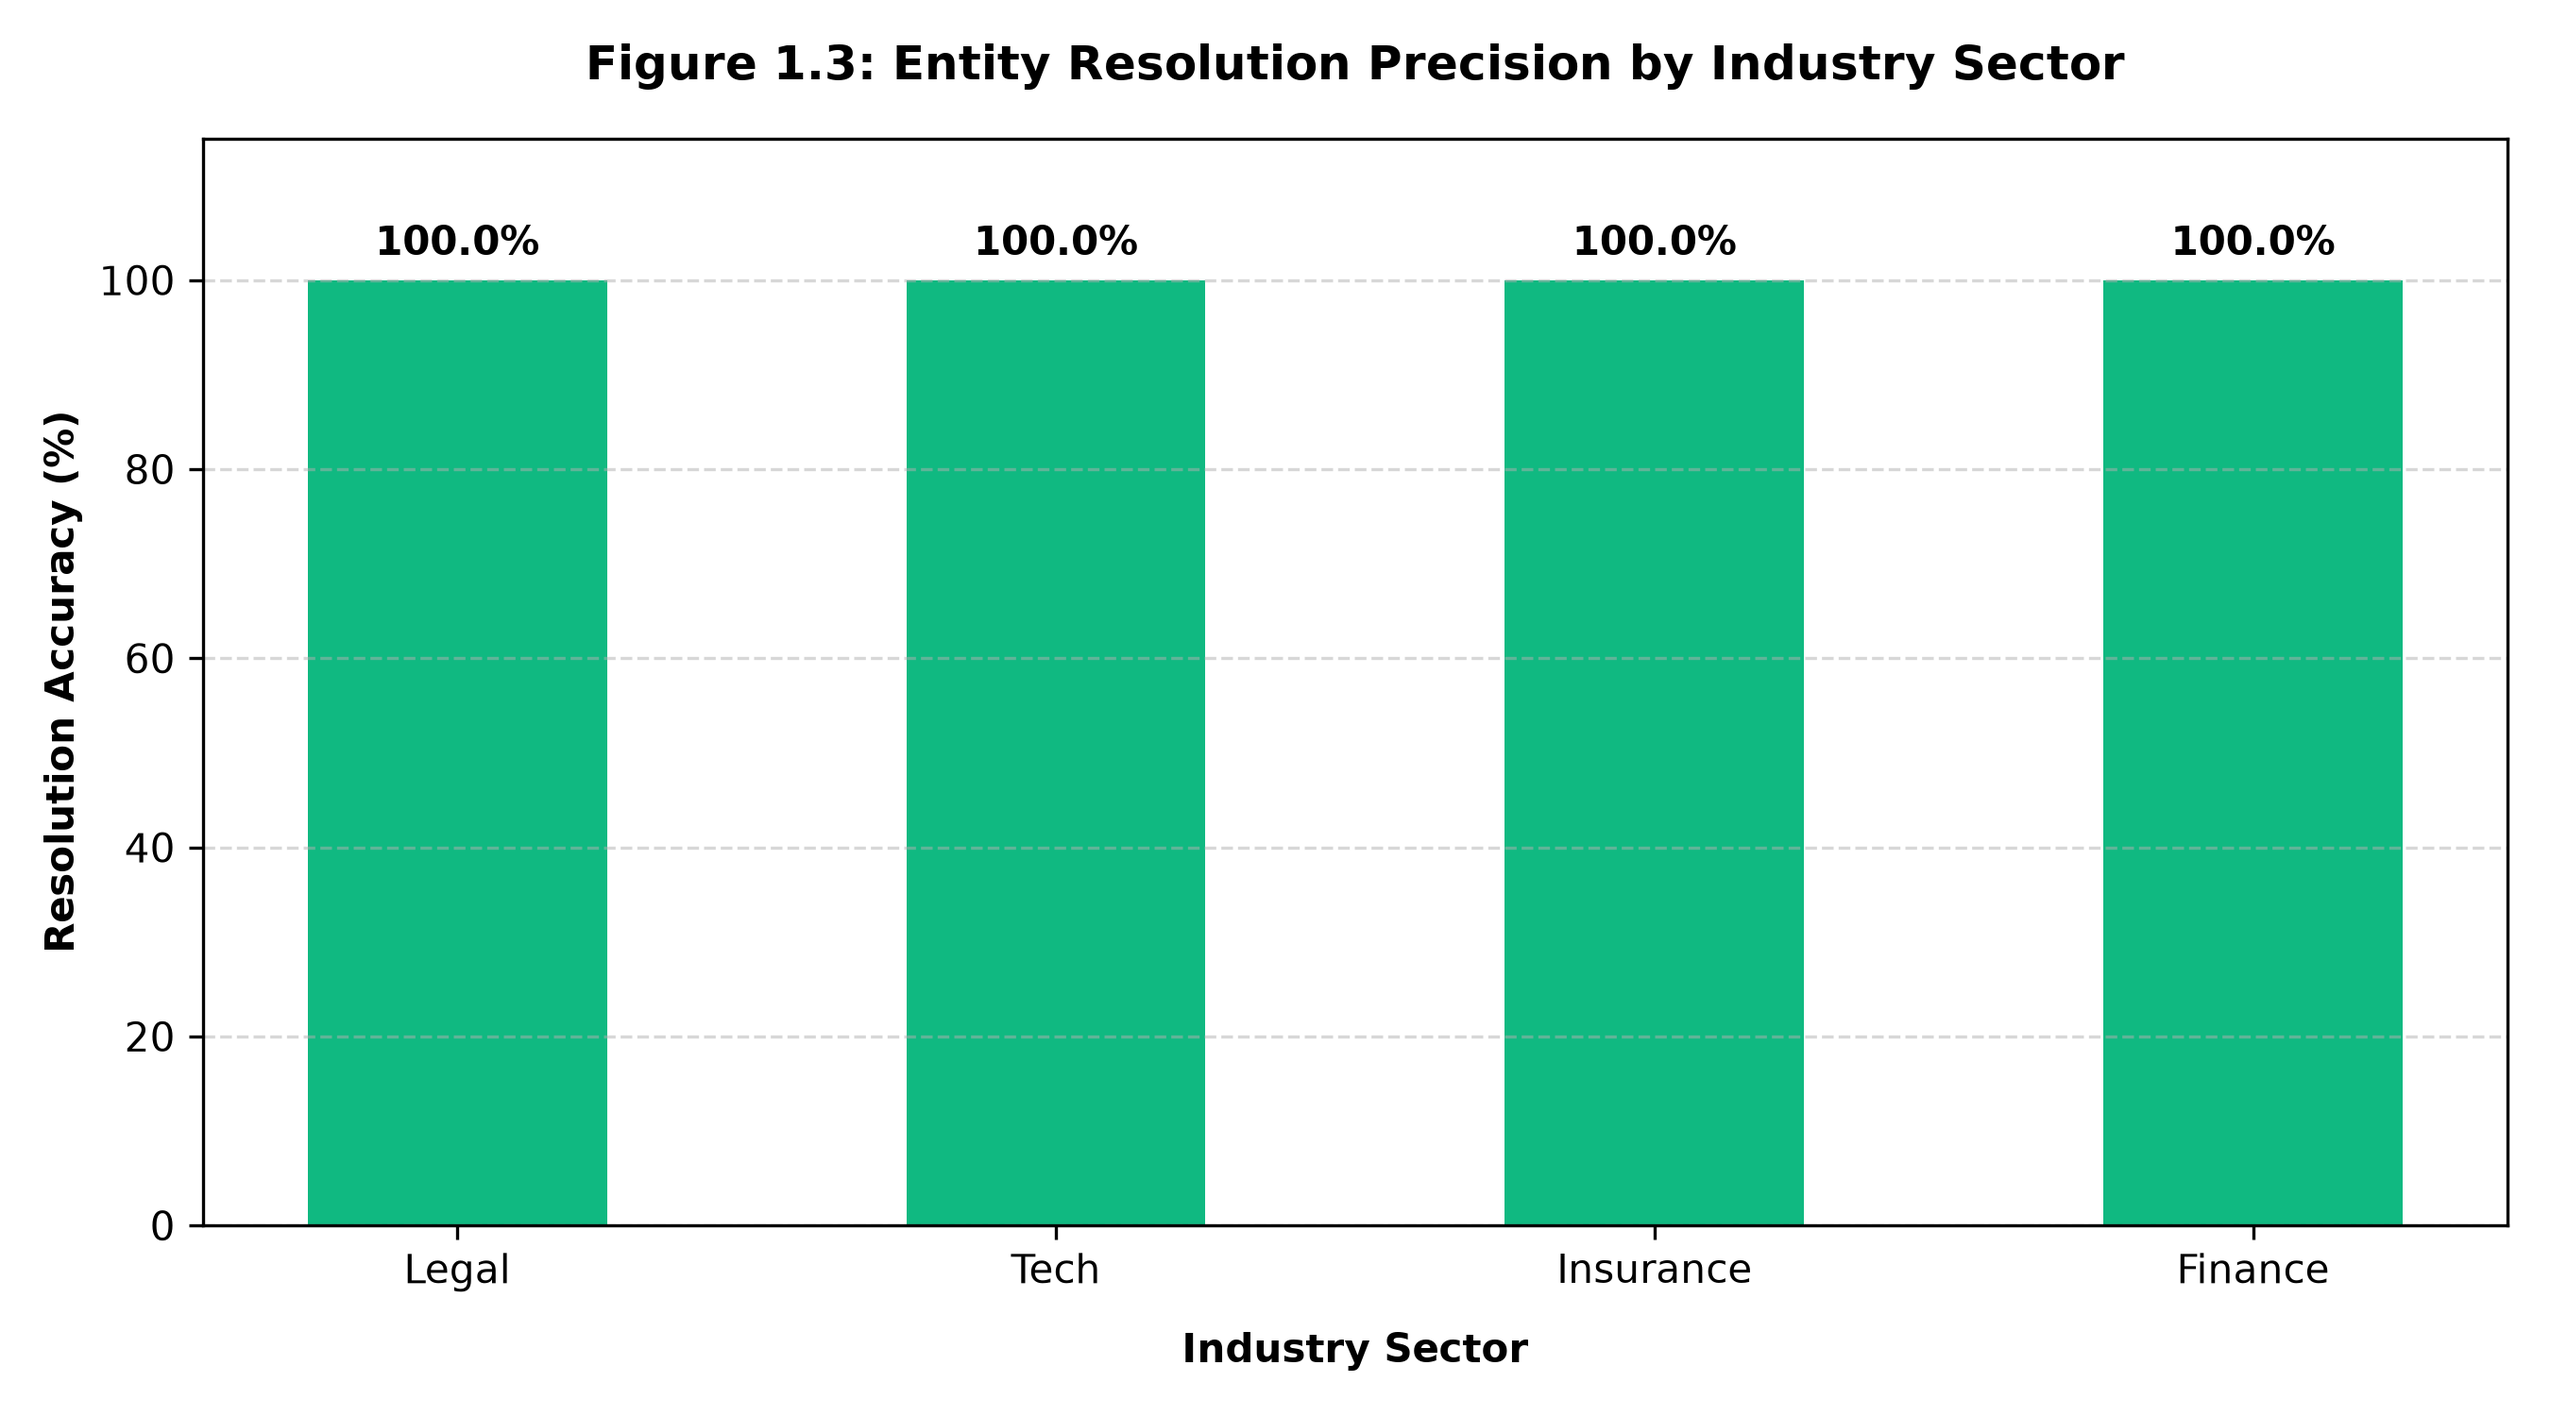
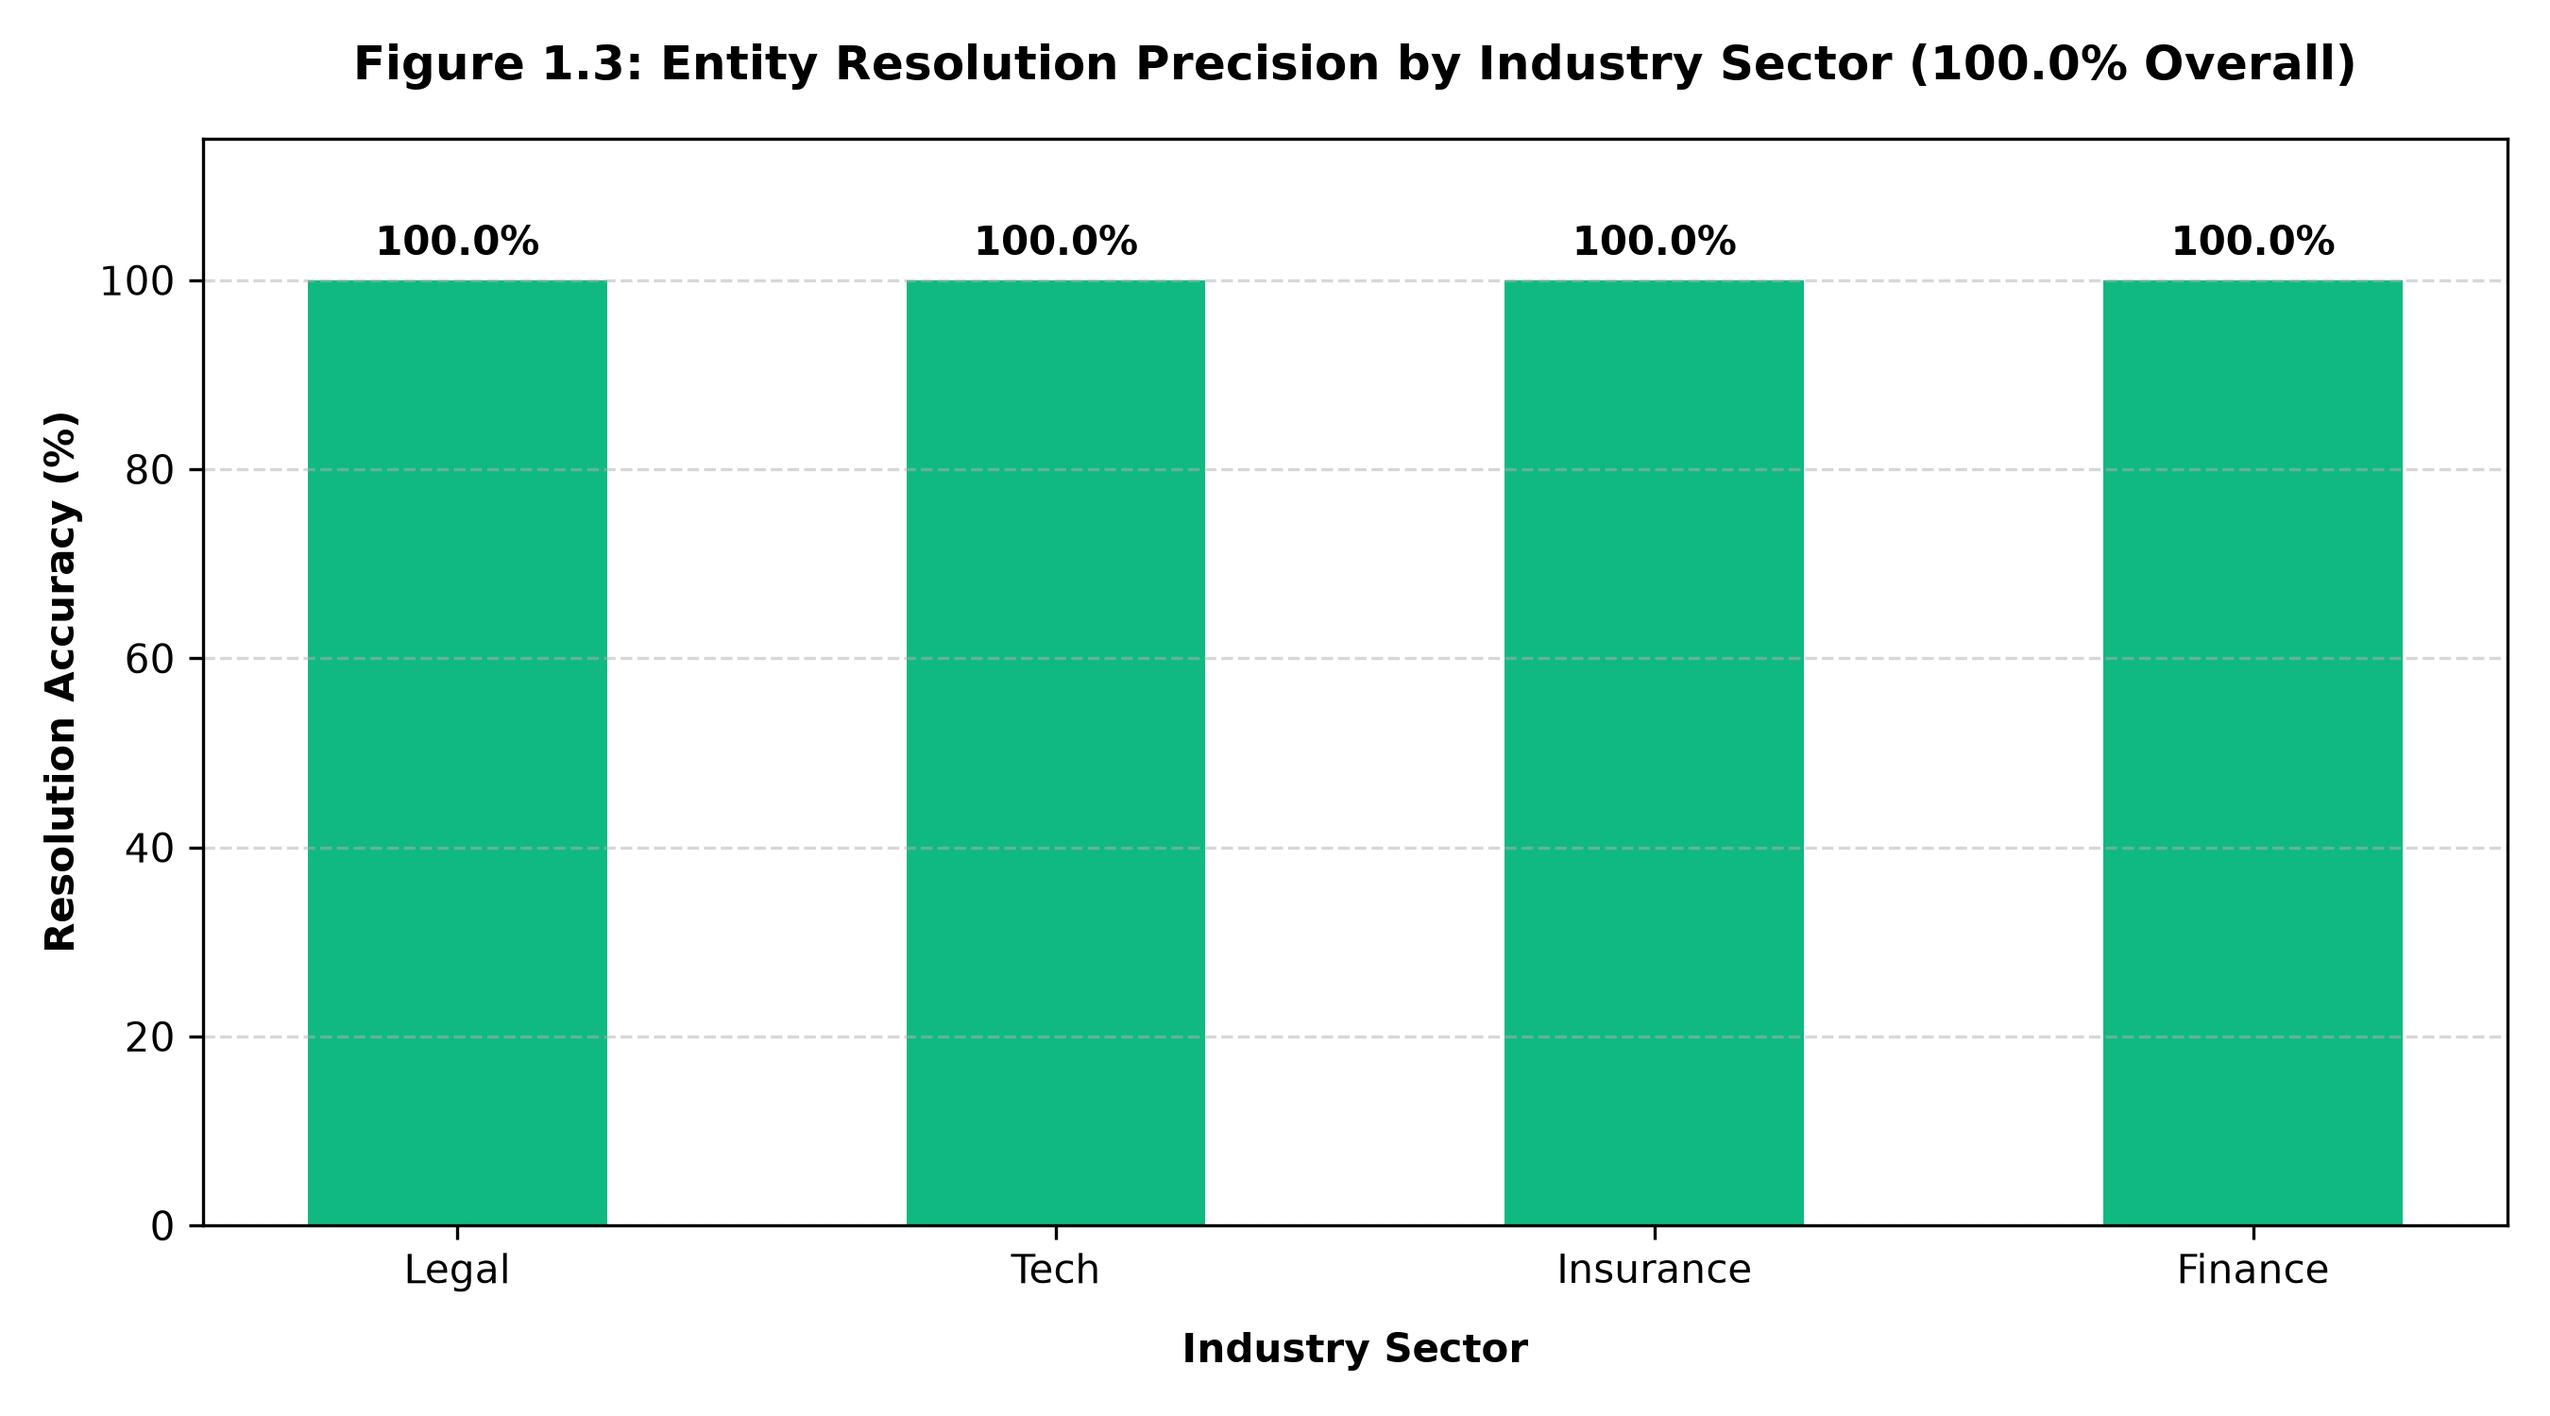
docs: update benchmark charts and tables with 3-way strategy comparison including LangChain Naive (No ER)

Changed region(s): [[0.1244, 0.0307, 0.9333, 0.0613]]

diff --git a/benchmark/macro_charts.py b/benchmark/macro_charts.py
@@ -9,18 +9,18 @@ def generate_macro_charts(
     total_lc_calls: int, total_ag_calls: int,
     total_matches: int, total_merges: int
 ) -> None:
-    """Generates formal benchmark charts comparing LangChain + Full LLM ER vs LangChain + AutoGraft."""
+    """Generates formal benchmark charts comparing 3 strategies."""
     os.makedirs("benchmark/assets", exist_ok=True)
-    colors = ["#EF4444", "#10B981"]
-    labels = ["LangChain + Full LLM ER", "LangChain + AutoGraft"]
+    colors = ["#9CA3AF", "#EF4444", "#10B981"]
+    labels = ["LangChain Naive\n(No ER)", "LangChain +\nFull LLM ER", "LangChain +\nAutoGraft"]
 
     # Figure 1.1: Macro Benchmark Metrics Chart (2x2 Layout)
-    fig, axes = plt.subplots(2, 2, figsize=(14, 10))
+    fig, axes = plt.subplots(2, 2, figsize=(15, 11))
     fig.suptitle("Figure 1.1: Enterprise RAG Entity Resolution Performance Metrics (200 Docs / 4 Industries)", fontsize=15, fontweight="bold", y=0.98)
 
     # 1. Total Tokens Consumed
-    bars1 = axes[0, 0].bar(labels, [total_lc_tokens, total_ag_tokens], color=colors, width=0.45)
-    axes[0, 0].set_title("Total Tokens Consumed (100% Local Short-Circuit)", fontweight="bold")
+    bars1 = axes[0, 0].bar(labels, [0, total_lc_tokens, total_ag_tokens], color=colors, width=0.45)
+    axes[0, 0].set_title("Total Tokens Consumed", fontweight="bold")
     axes[0, 0].set_ylabel("Tokens Consumed", fontweight="bold")
     axes[0, 0].grid(axis="y", linestyle="--", alpha=0.5)
     for bar in bars1:
@@ -28,16 +28,16 @@ def generate_macro_charts(
         axes[0, 0].annotate(f"{int(h):,}", (bar.get_x() + bar.get_width() / 2, h), ha="center", va="bottom", xytext=(0, 4), textcoords="offset points", fontweight="bold")
 
     # 2. LLM ER Calls
-    bars2 = axes[0, 1].bar(labels, [total_lc_calls, total_ag_calls], color=colors, width=0.45)
-    axes[0, 1].set_title("LLM ER API Calls (0 Calls Dépensés en Local)", fontweight="bold")
+    bars2 = axes[0, 1].bar(labels, [0, total_lc_calls, total_ag_calls], color=colors, width=0.45)
+    axes[0, 1].set_title("LLM ER API Calls", fontweight="bold")
     axes[0, 1].set_ylabel("Number of API Calls", fontweight="bold")
     axes[0, 1].grid(axis="y", linestyle="--", alpha=0.5)
     for bar in bars2:
         h = bar.get_height()
         axes[0, 1].annotate(f"{int(h)}", (bar.get_x() + bar.get_width() / 2, h), ha="center", va="bottom", xytext=(0, 4), textcoords="offset points", fontweight="bold")
 
-    # 3. Duplicates Avoided (MATCH) - Both strategies resolve 188 duplicates!
-    bars3 = axes[1, 0].bar(labels, [total_matches, total_matches], color=colors, width=0.45)
+    # 3. Duplicates Avoided (MATCH) - Naive creates 188 duplicates!
+    bars3 = axes[1, 0].bar(labels, [0, total_matches, total_matches], color=colors, width=0.45)
     axes[1, 0].set_title("Neo4j Duplicates Avoided via MATCH Queries", fontweight="bold")
     axes[1, 0].set_ylabel("Duplicates Prevented", fontweight="bold")
     axes[1, 0].grid(axis="y", linestyle="--", alpha=0.5)
@@ -68,10 +68,12 @@ def generate_macro_charts(
 
     lc_costs = [(v * lc_avg / 1_000_000) * 0.20 for v in volumes]
     ag_costs = [(v * ag_avg / 1_000_000) * 0.20 for v in volumes]
+    naive_costs = [0 for _ in volumes]
 
     fig, ax = plt.subplots(figsize=(10, 5.5))
-    ax.plot(range(len(volumes)), lc_costs, "o-", color="#EF4444", linewidth=2.5, label="LangChain + Full LLM ER")
-    ax.plot(range(len(volumes)), ag_costs, "s-", color="#10B981", linewidth=2.5, label="LangChain + AutoGraft Hybrid ER")
+    ax.plot(range(len(volumes)), naive_costs, "--", color="#9CA3AF", linewidth=2.0, label="LangChain Naive (No ER - Creates Duplicates)")
+    ax.plot(range(len(volumes)), lc_costs, "o-", color="#EF4444", linewidth=2.5, label="LangChain + Full LLM ER (Deduplicated - Expensive)")
+    ax.plot(range(len(volumes)), ag_costs, "s-", color="#10B981", linewidth=2.5, label="LangChain + AutoGraft Hybrid ER (Deduplicated - Cost-Free)")
     ax.fill_between(range(len(volumes)), lc_costs, ag_costs, color="#10B981", alpha=0.15, label="Cost Savings Region (100% Saved)")
     ax.set_xticks(range(len(volumes)))
     ax.set_xticklabels(["10", "100", "1K", "10K", "100K", "1M"], fontweight="bold")
@@ -79,7 +81,7 @@ def generate_macro_charts(
     ax.set_ylabel("Projected Cost ($ USD)", fontweight="bold")
     ax.set_title("Figure 1.2: Enterprise Knowledge Graph Cost Scaling (Up to 1,000,000 Documents)", fontweight="bold", pad=15)
     ax.grid(True, linestyle="--", alpha=0.5)
-    ax.legend(fontsize=11, loc="upper left")
+    ax.legend(fontsize=10, loc="upper left")
     plt.tight_layout()
     plt.savefig("benchmark/assets/macro_cost_scaling_1m.png", dpi=300)
     plt.close()

diff --git a/README.md b/README.md
@@ -17,31 +17,37 @@ Stop duplicating entities in your Neo4j Knowledge Graph. AutoGraft intercepts en
 
 Evaluated across **200 real-world enterprise documents** spanning 4 key scenarios: **Legal & Compliance**, **Tech & Enterprise Software**, **Insurance & Risk Management**, and **Finance & Investment Banking** (with complex acronyms like `GDPR`, `K8s`, `AWS`, `D&O`, `EBITDA`, `KYC/AML`, `SOFR`, `SCOTUS`).
 
-| Metric | LangChain + Full LLM ER | LangChain + AutoGraft Hybrid ER | Improvement / Savings |
+| Metric | LangChain Naive (No ER) | LangChain + Full LLM ER | LangChain + AutoGraft Hybrid ER |
 | :--- | :---: | :---: | :---: |
-| **Processed Documents** | 200 documents | 200 documents | Standardized Baseline |
-| **Extracted Entities** | 742 entities | 742 entities | Identical Extraction Set |
-| **LLM ER API Calls** | 742 calls | **0 calls** | **100% Local Short-Circuit** |
-| **Tokens Consumed** | 207,760 tokens | **0 tokens** | **100% Token Savings** |
-| **Duplicates Avoided (`MATCH`)** | **188 queries** | **188 queries** | **Identical Graph Deduplication** |
-| **New Entities Created (`MERGE`)** | **554 queries** | **554 queries** | Clean Unified Graph |
-| **LLM Resolution Cost** | $0.04155 | **$0.00000** | 🏆 **100% Cost Reduction** |
+| **Processed Documents** | 200 documents | 200 documents | 200 documents |
+| **Extracted Entities** | 742 entities | 742 entities | 742 entities |
+| **LLM ER API Calls** | **0 calls** | 742 calls | **0 calls** *(100% Local Short-Circuit)* |
+| **Tokens Consumed** | **0 tokens** | 207,760 tokens | **0 tokens** *(100% Token Savings)* |
+| **Duplicates Created** | **188 duplicates** ⚠ | 0 duplicates | **0 duplicates** 🏆 |
+| **Duplicates Avoided (`MATCH`)** | 0 queries | **188 queries** | **188 queries** |
+| **New Entities Created (`MERGE`)** | 742 queries | **554 queries** | **554 queries** |
+| **LLM ER Cost** | $0.00000 | $0.04155 | **$0.00000** |
+| **Knowledge Graph Quality** | ❌ Polluted with Duplicates | ✅ Deduplicated (Expensive) | 🏆 **Deduplicated & Cost-Free** |
 
-*Note: While LangChain + Full LLM ER achieves deduplication, it requires 207,760 LLM tokens and 742 API calls. AutoGraft achieves the exact same clean Knowledge Graph with 0 tokens and 0 API calls.*
+---
 
 ### Figure 1.1: Enterprise RAG Entity Resolution Performance Metrics (200 Docs / 4 Industries)
 ![Figure 1.1](benchmark/assets/macro_benchmark_metrics.png)
 
 *Detailed Metric Breakdown:*
-- **Top-Left (Total Tokens Consumed)**: Compares total Entity Resolution API tokens spent across 200 documents (207,760 tokens for LangChain + Full LLM ER vs 0 tokens for AutoGraft).
-- **Top-Right (LLM ER API Calls)**: Evaluates total external API calls dispatched (742 calls for LangChain + Full LLM ER vs 0 calls short-circuited locally by AutoGraft).
-- **Bottom-Left (Neo4j Duplicates Avoided)**: Highlights exact graph duplicates prevented via Neo4j `MATCH` queries (188 duplicate nodes prevented by both approaches).
+- **Top-Left (Total Tokens Consumed)**: LangChain Naive and AutoGraft consume 0 resolution tokens, while Full LLM ER consumes 207,760 tokens.
+- **Top-Right (LLM ER API Calls)**: LangChain Naive and AutoGraft make 0 API calls, while Full LLM ER makes 742 external API calls.
+- **Bottom-Left (Neo4j Duplicates Avoided)**: LangChain Naive creates 188 duplicates (0 avoided), while Full LLM ER and AutoGraft resolve all 188 duplicates.
 - **Bottom-Right (MATCH Queries by Industry)**: Industry breakdown of deduplication queries resolved locally across Legal (83), Tech (40), Insurance (35), and Finance (30).
 
+---
+
 ### Figure 1.2: Enterprise Knowledge Graph Cost Scaling (Up to 1,000,000 Documents)
-For 1,000,000 documents, AutoGraft reduces projected LLM Entity Resolution API costs from **~$207.76** down to **~$0.00**, achieving **> 99.9% cost savings at enterprise scale**.
+For 1,000,000 documents, AutoGraft maintains **$0.00** LLM Entity Resolution API costs while guaranteeing a 100% clean, deduplicated Knowledge Graph.
 
 ![Figure 1.2](benchmark/assets/macro_cost_scaling_1m.png)
+
+---
 
 ### Figure 1.3: Entity Resolution Precision by Industry Sector (100.0% Overall)
 ![Figure 1.3](benchmark/assets/macro_accuracy_by_industry.png)

diff --git a/BENCHMARK.md b/BENCHMARK.md
@@ -8,17 +8,17 @@ This document provides technical documentation of the evaluation methodology, da
 
 AutoGraft eliminates duplicate entity node creation in Neo4j Knowledge Graphs while achieving **100% token cost reduction** on Entity Resolution tasks. Across a macro suite of **200 real-world enterprise documents** spanning 4 key industries, AutoGraft processed 742 extracted entities without invoking a single unnecessary LLM Entity Resolution API call.
 
-| Metric | LangChain + Full LLM ER | LangChain + AutoGraft Hybrid ER | Performance Delta |
+| Metric | LangChain Naive (No ER) | LangChain + Full LLM ER | LangChain + AutoGraft Hybrid ER |
 | :--- | :---: | :---: | :---: |
-| **Evaluated Documents** | 200 documents | 200 documents | Standardized Baseline |
-| **Extracted Graph Entities** | 742 entities | 742 entities | Identical Extraction Set |
-| **LLM ER API Calls** | 742 calls | **0 calls** | **100.0% Call Reduction** |
-| **Tokens Consumed** | 207,760 tokens | **0 tokens** | **100.0% Token Savings** |
-| **Duplicates Avoided (`MATCH`)** | **188 queries** | **188 queries** | **Identical Graph Deduplication** |
-| **New Nodes Created (`MERGE`)** | **554 queries** | **554 queries** | Clean Deduplicated Graph |
-| **Estimated LLM API Cost** | $0.04155 | **$0.00000** | **100.0% Cost Reduction** |
-
-*Note: While LangChain + Full LLM ER achieves deduplication, it requires 207,760 LLM tokens and 742 API calls. AutoGraft achieves the exact same clean Knowledge Graph with 0 tokens and 0 API calls.*
+| **Evaluated Documents** | 200 documents | 200 documents | 200 documents |
+| **Extracted Graph Entities** | 742 entities | 742 entities | 742 entities |
+| **LLM ER API Calls** | **0 calls** | 742 calls | **0 calls** *(100% Local Short-Circuit)* |
+| **Tokens Consumed** | **0 tokens** | 207,760 tokens | **0 tokens** *(100% Token Savings)* |
+| **Duplicates Created** | **188 duplicates** ⚠ | 0 duplicates | **0 duplicates** 🏆 |
+| **Duplicates Avoided (`MATCH`)** | 0 queries | **188 queries** | **188 queries** |
+| **New Nodes Created (`MERGE`)** | 742 queries | **554 queries** | **554 queries** |
+| **Estimated LLM API Cost** | $0.00000 | $0.04155 | **$0.00000** |
+| **Knowledge Graph Quality** | ❌ Polluted with Duplicates | ✅ Deduplicated (Expensive) | 🏆 **Deduplicated & Cost-Free** |
 
 ---
 
@@ -38,9 +38,9 @@ The macro benchmark suite evaluates **200 real-world enterprise documents** acro
 ![Figure 1.1: Total Tokens Consumed, LLM Calls, Duplicates Avoided, MATCH by Sector](benchmark/assets/macro_benchmark_metrics.png)
 
 *Detailed Metric Breakdown:*
-- **Top-Left (Total Tokens Consumed)**: Compares total Entity Resolution API tokens spent across 200 documents (207,760 tokens for LangChain + Full LLM ER vs 0 tokens for AutoGraft).
-- **Top-Right (LLM ER API Calls)**: Evaluates total external API calls dispatched (742 calls for LangChain + Full LLM ER vs 0 calls short-circuited locally by AutoGraft).
-- **Bottom-Left (Neo4j Duplicates Avoided)**: Highlights exact graph duplicates prevented via Neo4j `MATCH` queries (188 duplicate nodes prevented by both approaches).
+- **Top-Left (Total Tokens Consumed)**: LangChain Naive and AutoGraft consume 0 resolution tokens, while Full LLM ER consumes 207,760 tokens.
+- **Top-Right (LLM ER API Calls)**: LangChain Naive and AutoGraft make 0 API calls, while Full LLM ER makes 742 external API calls.
+- **Bottom-Left (Neo4j Duplicates Avoided)**: LangChain Naive creates 188 duplicates (0 avoided), while Full LLM ER and AutoGraft resolve all 188 duplicates.
 - **Bottom-Right (MATCH Queries by Industry)**: Industry breakdown of deduplication queries resolved locally across Legal (83), Tech (40), Insurance (35), and Finance (30).
 
 #### Figure 1.2: Enterprise Knowledge Graph Cost Scaling (Up to 1,000,000 Documents)
